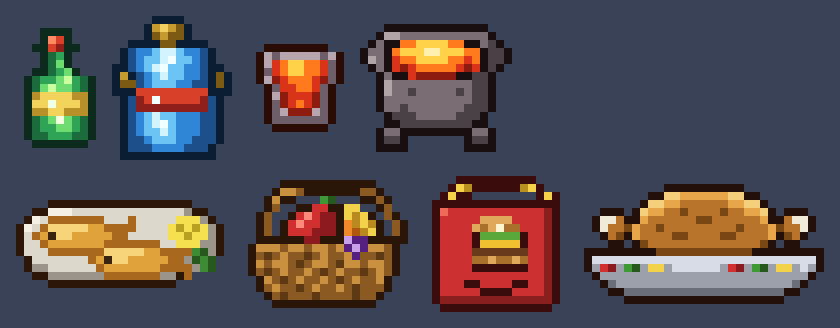
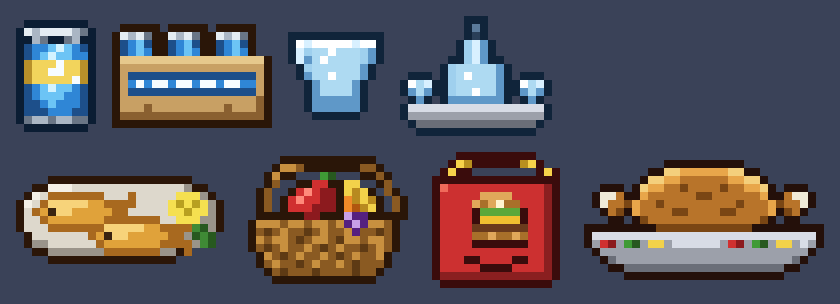
Provisions re-theme: Fizz Can and Case of Fizz (12 cans), Iceberg Shot and Iceberg Tray (ice-cold vodka, Tipsy, lava immunity)
Display names, tooltips, recipes (Case: 12 cans at a Work Bench; Shot: Obsidian Skin ingredients plus an Ice Block; Tray: 10 shots plus 4 iron bars) and four new sprites; class names unchanged. The vodka counts as alcohol (Tipsy, sway).

Claude-Session: https://claude.ai/code/session_01QKZziVb146pFyiSgEKZHkk

diff --git a/levy-mod/tools/art8/provisions.py b/levy-mod/tools/art8/provisions.py
@@ -35,80 +35,73 @@ def render(rows, pal):
 
 S = {}
 
-# FIZZ POP: a green soda bottle with a red cap and a yellow label (20x30)
-S['FizzPop'] = (dict(O='0d2b1c', d='1c6b3d', m='2fa356', l='6fdc72', h='c9ff9c', w='f2ffe0', C='d8402a', c='8f1f1a', k='ff8a63', y='f2d45c', Y='b8902a'), [
-    "...OOOO...",
-    "...OkCO...",
-    "..OOCcOO..",
-    "...OdmO...",
-    "...OdlO...",
-    "..OOdmlO..",
-    ".OdmmlhmdO",
-    ".OdlhllmdO",
-    ".OYyyyyYYO",
-    ".OyywyyyYO",
-    ".OYYyyYYYO",
-    ".OdmlwlmdO",
-    ".OdmmllmdO",
-    ".OddmmmddO",
-    "..OOOOOOO.",
+# FIZZ POP: a blue soda can with a silver top and a yellow label (20x28)
+S['FizzPop'] = (dict(O='0b1d33', d='1d4f8a', m='2f86d6', l='6cc4f5', h='d3f3ff', j='e4ecf2', I='aab6c4', i='6a7686', y='f2d45c', Y='b8902a', w='f6fcff'), [
+    ".OOOOOOOO.",
+    "OjIjjjjIiO",
+    "OOIiOOiIOO",
+    "OdmmlhlmdO",
+    "OdmlhllmmO",
+    "OYyyywyyYO",
+    "OYyywwyyYO",
+    "OYyyyyywYO",
+    "OdmlhllmdO",
+    "OdmlllmmdO",
+    "OddmlmmmdO",
+    "OdddmmmddO",
+    "OiIIiIIiiO",
+    ".OOOOOOOO.",
 ])
 
-# FIZZ TANK: a steel soda cylinder with a brass valve and a tap
-S['FizzTank'] = (dict(O='0b1d33', d='1d4f8a', m='2f86d6', l='6cc4f5', h='d3f3ff', b='c59a2e', B='7d5a14', g='f0d060', r='d8402a', R='8f1f1a', w='f2ffff'), [
-    ".....OOOO......",
-    "....ObgbBO.....",
-    "....OBbBBO.....",
-    "..OOOOBBOOOO...",
-    ".OdmmlhhlmmdO..",
-    ".OdmllhwllmdO..",
-    "OOdmlhwllmmdOO.",
-    "ObOdmlhllmmdOBO",
-    "OBBdmlllmmddOBO",
-    "OOOrrrrrrrrrOOO",
-    ".OdRrwrrrrrRdO.",
-    ".OdRRRRRRRRRdO.",
-    ".OdmlhllmmmddO.",
-    ".OdmlhwlmmmddO.",
-    ".OdmllhlmmmddO.",
-    ".OddmlllmmdddO.",
-    ".OdddmmmmdddO..",
-    ".OOOOOOOOOOOO..",
+# FIZZ TANK (Case of Fizz): a cardboard case with a row of blue cans standing in it (40x26)
+S['FizzTank'] = (dict(O='2a1608', c='c8a064', k='e6c88c', C='8a6030', b='2f86d6', B='1d4f8a', w='f6fcff', j='e4ecf2', I='aab6c4', i='6a7686', d='1d4f8a', m='2f86d6', l='6cc4f5'), [
+    ".OOOOO.OOOOO.OOOOO..",
+    "OjIjiOOjIjiOOjIjiO..",
+    "OdmldOOdmldOOdmldO..",
+    "OdmlmOOdmlmOOdmlmO..",
+    "OkkkkkkkkkkkkkkkkkkO",
+    "OccccccccccccccccccO",
+    "OcBBBBBBBBBBBBBBBBcO",
+    "OcbwbwwbwwbwwbwwbbcO",
+    "OcBBBBBBBBBBBBBBBBcO",
+    "OcccccccccccccccccCO",
+    "OcccCcccccccccCcccCO",
+    "OCCCCCCCCCCCCCCCCCCO",
+    "OOOOOOOOOOOOOOOOOOOO",
 ])
 
-# MAGMA SHOT: a smoked-glass shot of lava
-S['MagmaShot'] = (dict(O='2a0c06', g='b7a6ad', G='6e5e69', r='d9341a', R='8e1b10', o='ff7a1c', y='ffd24a', w='fff0b0'), [
-    "..OOOOOOOO..",
-    ".OgGgggggGgO",
-    ".OgroyyoorGO",
-    ".OGroyyoorGO",
-    ".OgRrooorRGO",
-    "..OGrroorGO.",
-    "..OgRrrrRGO.",
-    "..OGRrorRGO.",
-    "..OGgRRRgGO.",
-    "..OGGGGGGGO.",
-    "...OOOOOOO..",
+# MAGMA SHOT (Iceberg Shot): a frosted shot glass of ice-cold vodka (24x22)
+S['MagmaShot'] = (dict(O='10243a', e='d8f0ff', f='9fd0ee', F='5f98c8', v='aedaf2', w='ffffff'), [
+    "OOOOOOOOOOOO",
+    "OwewwwwwewwO",
+    "OefvvwvvvfFO",
+    "OeFvwvvvvfFO",
+    ".OfvvvvvvFO.",
+    ".OFvvwvvvFO.",
+    "..OFvvvvFO..",
+    "..OFvvvvFO..",
+    "..OFFFFFFO..",
+    "..OFFFFFFO..",
+    "...OOOOOO...",
 ])
 
-# MAGMA CRUCIBLE: an iron pot full of lava with two handles
-S['MagmaCrucible'] = (dict(O='1a0f10', i='4a4146', I='7a6d73', j='b2a5a8', r='d9341a', R='8e1b10', o='ff7a1c', y='ffd24a', w='fff0b0'), [
-    "...OOOOOOOOOOOOO...",
-    "..OjjIIIIIIIIIIIO..",
-    ".OIOOooyyyyooOOIiO.",
-    "OIIOoyyywwyyyooOiiO",
-    "OjIOrooyyyyooroOiiO",
-    ".OIOrRrooooorRrOiO.",
-    "..OIOOrRRRRROOiiO..",
-    "..OjIIIIIIIIIIiiO..",
-    "..OjIIiIIIIIiIiiO..",
-    "..OIIIIIIIIIIIiiO..",
-    "..OIIiIIIIIIIiiiO..",
-    "...OiiiIIIIIiiiO...",
-    "...OOiiiiiiiiiOO...",
-    "..OIIOOOOOOOOOIIO..",
-    "..OiiO.......OiiO..",
-    "..OOOO.......OOOO..",
+# MAGMA CRUCIBLE (Iceberg Tray): a frosted bottle and two shots on a silver tray (38x30)
+S['MagmaCrucible'] = (dict(O='10243a', e='d8f0ff', f='9fd0ee', F='5f98c8', v='aedaf2', w='ffffff', k='5a7a9a', c='2a3f58', j='d8dce6', I='9ca0aa', i='6a6e78'), [
+    "........OOO........",
+    "........OkO........",
+    "........OcO........",
+    ".......OfeFO.......",
+    ".......OfeFO.......",
+    "......OOfeFOO......",
+    ".....OfvvvvvFO.....",
+    ".OOO.OfvwvvvFO.OOO.",
+    "OwveOOfvvvvvFOOwveO",
+    "OFvFOOfvvwvvFOOFvFO",
+    ".OFO.OFFFFFFFO.OFO.",
+    "OjjjjjjjjjjjjjjjjjO",
+    "OIIIIIIIIIIIIIIIIIO",
+    ".OiiiiiiiiiiiiiiiO.",
+    "..OOOOOOOOOOOOOOO..",
 ])
 
 # FISH FRY PLATTER: a white plate with two fried fish, a lemon wedge and parsley

diff --git a/levy-mod/Levy/Content/Items/Provisions/ProvisionItems.cs b/levy-mod/Levy/Content/Items/Provisions/ProvisionItems.cs
@@ -54,7 +54,7 @@ namespace Levy.Content.Items.Provisions
 		}
 	}
 
-	/// <summary>Fizz Tank: a bulk fizzy round. Also sold by the Tavernkeep.</summary>
+	/// <summary>Case of Fizz (class keeps its old name): a bulk fizzy round, crafted from cans. Also sold by the Tavernkeep.</summary>
 	public class FizzTank : ProvisionContainer
 	{
 		public override int RoundId => ProvisionRules.FizzId;
@@ -63,18 +63,18 @@ namespace Levy.Content.Items.Provisions
 		public override LocalizedText Tooltip => base.Tooltip.WithFormatArgs(LevyConstants.DrinkRadiusTiles, LevyConstants.DrinkDurationTicks / 3600, ProvisionRules.FizzJumpTiles, LevyConstants.FizzDefense, (int)System.Math.Round(LevyConstants.FizzKnockbackResist * 100f));
 
 		public override void AddRecipes()
-			=> CreateRecipe().AddIngredient(ModContent.ItemType<FizzPop>(), LevyConstants.FizzTankPops).AddRecipeGroup(RecipeGroupID.IronBar, 6).AddTile(TileID.Anvils).Register();
+			=> CreateRecipe().AddIngredient(ModContent.ItemType<FizzPop>(), LevyConstants.FizzTankPops).AddTile(TileID.WorkBenches).Register();
 	}
 
-	/// <summary>Magma Crucible: a bulk lava round, crafted only.</summary>
+	/// <summary>Iceberg Tray (class keeps its old name): a bulk round of Iceberg Shots, crafted only.</summary>
 	public class MagmaCrucible : ProvisionContainer
 	{
 		public override int RoundId => ProvisionRules.LavaId;
 		protected override (int w, int h) Size => (38, 32);
-		public override LocalizedText Tooltip => base.Tooltip.WithFormatArgs(LevyConstants.DrinkRadiusTiles, LevyConstants.LavaShotDurationTicks / 3600);
+		public override LocalizedText Tooltip => base.Tooltip.WithFormatArgs(LevyConstants.DrinkRadiusTiles, LevyConstants.LavaShotDurationTicks / 3600, (int)System.Math.Round((LevyConstants.DrunkAimErrorMult - 1f) * 100f));
 
 		public override void AddRecipes()
-			=> CreateRecipe().AddIngredient(ModContent.ItemType<MagmaShot>(), LevyConstants.CrucibleShots).AddRecipeGroup(RecipeGroupID.IronBar, 6).AddIngredient(ItemID.Obsidian, 5).AddTile(TileID.Anvils).Register();
+			=> CreateRecipe().AddIngredient(ModContent.ItemType<MagmaShot>(), LevyConstants.CrucibleShots).AddRecipeGroup(RecipeGroupID.IronBar, 4).AddTile(TileID.Anvils).Register();
 	}
 
 	/// <summary>A single drink: a buff potion the player can drink, which the Armory also issues to a levy from a buff slot.</summary>
@@ -96,7 +96,7 @@ namespace Levy.Content.Items.Provisions
 		}
 	}
 
-	/// <summary>Fizz Pop: a non-alcoholic bubbly drink. Brewed in bulk (four per batch).</summary>
+	/// <summary>Fizz Can (class keeps its old name): a non-alcoholic bubbly drink in a soda can. Brewed in bulk (four per batch).</summary>
 	public class FizzPop : SingleDrink
 	{
 		protected override int BuffType => ModContent.BuffType<FizzyBuff>();
@@ -114,7 +114,7 @@ namespace Levy.Content.Items.Provisions
 			=> CreateRecipe(LevyConstants.FizzPopsPerBrew).AddIngredient(ItemID.BottledWater, LevyConstants.FizzPopsPerBrew).AddIngredient(ItemID.Cloud).AddIngredient(ItemID.Daybloom).AddTile(TileID.Bottles).Register();
 	}
 
-	/// <summary>Magma Shot: lava immunity and lava swimming in a shot glass. Brewed in bulk (five per batch) from the Obsidian Skin Potion's own ingredients.</summary>
+	/// <summary>Iceberg Shot (class keeps its old name): ice-cold vodka, so numb that lava means nothing: lava immunity and lava swimming. Brewed in bulk (five per batch) from the Obsidian Skin Potion's own ingredients plus an Ice Block.</summary>
 	public class MagmaShot : SingleDrink
 	{
 		protected override int BuffType => ModContent.BuffType<LavaShotBuff>();

diff --git a/levy-mod/Levy/Common/Provisions/ProvisionsSystem.cs b/levy-mod/Levy/Common/Provisions/ProvisionsSystem.cs
@@ -85,6 +85,7 @@ namespace Levy.Common.Provisions
 				foreach (int tile in source.requiredTile) shot.AddTile(tile);
 			}
 			else shot.AddIngredient(ItemID.BottledWater).AddIngredient(ItemID.Daybloom).AddIngredient(ItemID.Obsidian).AddIngredient(ItemID.Fireblossom).AddTile(TileID.Bottles);
+			shot.AddIngredient(ItemID.IceBlock); // the frost
 			shot.Register();
 		}
 
@@ -176,9 +177,9 @@ namespace Levy.Common.Provisions
 				// the Magma Shot batch uses the Obsidian Skin Potion's ingredients
 				Recipe src = null, mine = null;
 				foreach (Recipe r in Main.recipe) { if (r == null || r.createItem == null) continue; if (r.createItem.type == ItemID.ObsidianSkinPotion && src == null) src = r; if (r.createItem.type == ModContent.ItemType<MagmaShot>()) mine = r; }
-				bool same = src != null && mine != null && src.requiredItem.Count == mine.requiredItem.Count;
+				bool same = src != null && mine != null && src.requiredItem.Count + 1 == mine.requiredItem.Count && mine.requiredItem[mine.requiredItem.Count - 1].type == ItemID.IceBlock;
 				if (same) for (int i = 0; i < src.requiredItem.Count; i++) same &= src.requiredItem[i].type == mine.requiredItem[i].type && src.requiredItem[i].stack == mine.requiredItem[i].stack;
-				Check(same, "Magma Shot is brewed from the Obsidian Skin Potion's ingredients");
+				Check(same, "Iceberg Shot is brewed from the Obsidian Skin Potion's ingredients plus an Ice Block");
 				Check(mine != null && mine.createItem.stack == LevyConstants.MagmaShotsPerBrew, "a Magma Shot brew makes " + LevyConstants.MagmaShotsPerBrew);
 			});
 
@@ -213,7 +214,7 @@ namespace Levy.Common.Provisions
 				var ab = Common.Movement.MovementAbilities.FromDummy(d);
 				Check(ab.ExtraJumps >= 1 && ab.JumpTiles >= Common.LevyConstants.Movement.BaseJumpTiles + ProvisionRules.FizzJumpTiles - 1, $"a Fizzy levy reads {ab.ExtraJumps} extra jump and {ab.JumpTiles} jump tiles (+{ProvisionRules.FizzJumpTiles})");
 				Check(DrinkBuffs.Apply(new Player { statDefense = new Player.DefenseStat() }, ModContent.BuffType<LavaShotBuff>()), "Lava Shot is claimed as a levy buff");
-				Check(!DrinkBuffs.IsDrinkBuff(ModContent.BuffType<FizzyBuff>()) && !DrinkBuffs.IsDrinkBuff(ModContent.BuffType<LavaShotBuff>()), "Fizzy and Lava Shot do not make a levy Tipsy");
+				Check(!DrinkBuffs.IsDrinkBuff(ModContent.BuffType<FizzyBuff>()) && DrinkBuffs.IsDrinkBuff(ModContent.BuffType<LavaShotBuff>()), "Fizzy is soda (not Tipsy) and the Iceberg vodka is Tipsy");
 
 				var n = new NPC(); n.SetDefaults(ModContent.NPCType<SoldierNPC>());
 				var body = n.ModNPC as SoldierNPC;
@@ -235,6 +236,7 @@ namespace Levy.Common.Provisions
 					if (!kept) { n.buffType[0] = ModContent.BuffType<LavaShotBuff>(); n.buffTime[0] = 600; n.buffType[1] = ModContent.BuffType<FizzyBuff>(); n.buffTime[1] = 600; }
 					g.Refresh(n);
 					Check(n.lavaImmune && n.buffImmune[BuffID.OnFire], $"a Lava Shot levy is lava and burning immune (AddBuff kept it: {kept})");
+					Check(DrinkBuffs.IsDrunk(n) && Math.Abs(DrinkBuffs.AimErrorFactor(body) - LevyConstants.DrunkAimErrorMult) < 1e-4f, "a Lava Shot levy is Tipsy");
 					Check(Math.Abs(n.knockBackResist - LevyConstants.FizzKnockbackResist) < 1e-4f, "a Fizzy levy takes knockback");
 					for (int i = 0; i < n.buffType.Length; i++) { n.buffType[i] = 0; n.buffTime[i] = 0; }
 					g.Refresh(n);

diff --git a/levy-mod/Levy/Content/Buffs/DrinkBuffs.cs b/levy-mod/Levy/Content/Buffs/DrinkBuffs.cs
@@ -44,7 +44,7 @@ namespace Levy.Content.Buffs
 		}
 
 		/// <summary>True if the buff type is one of the three drinks.</summary>
-		public static bool IsDrinkBuff(int type) => type == ModContent.BuffType<AleBuff>() || type == ModContent.BuffType<StoutBuff>() || type == ModContent.BuffType<RumBuff>();
+		public static bool IsDrinkBuff(int type) => type == ModContent.BuffType<AleBuff>() || type == ModContent.BuffType<StoutBuff>() || type == ModContent.BuffType<RumBuff>() || type == ModContent.BuffType<LavaShotBuff>(); // the Iceberg vodka is alcohol too
 
 		/// <summary>True if the NPC carries any drink.</summary>
 		public static bool IsDrunk(NPC n)
@@ -52,7 +52,7 @@ namespace Levy.Content.Buffs
 			if (n == null) return false;
 			var t = Types;
 			for (int i = 0; i < t.Length; i++) if (n.HasBuff(t[i])) return true;
-			return false;
+			return n.HasBuff(ModContent.BuffType<LavaShotBuff>()); // the Iceberg vodka: Tipsy too
 		}
 
 		/// <summary>Multiplier on a soldier's aim error: <see cref="LevyConstants.DrunkAimErrorMult"/> while it carries a drink, else exactly 1.</summary>

diff --git a/levy-mod/Levy/Content/Buffs/ProvisionBuffs.cs b/levy-mod/Levy/Content/Buffs/ProvisionBuffs.cs
@@ -31,7 +31,7 @@ namespace Levy.Content.Buffs
 	}
 
 	/// <summary>
-	/// Lava Shot (Magma Shot, Magma Crucible): immunity to lava and to the Burning it sets, and a body that swims through lava the way it swims through water.
+	/// Lava Shot (Iceberg Shot, Iceberg Tray; ice-cold vodka, so numb it ignores lava, and Tipsy like the other spirits): immunity to lava and to the Burning it sets, and a body that swims through lava the way it swims through water.
 	/// A real player gets Obsidian Skin's flags from the buff; a levy gets the flags from <see cref="ProvisionsBody"/> and the swim from SoldierNPC.Movement.
 	/// </summary>
 	public class LavaShotBuff : ModBuff
@@ -44,6 +44,8 @@ namespace Levy.Content.Buffs
 			Main.debuff[Type] = false; Main.pvpBuff[Type] = false;
 			Main.buffNoSave[Type] = true;
 		}
+
+		public override void ModifyBuffText(ref string buffName, ref string tip, ref int rare) => tip = string.Format(tip, (int)Math.Round((LevyConstants.DrunkAimErrorMult - 1f) * 100f));
 
 		public override void Update(Player player, ref int buffIndex)
 		{

diff --git a/levy-mod/Levy/Common/LevyConstants.Provisions.cs b/levy-mod/Levy/Common/LevyConstants.Provisions.cs
@@ -28,7 +28,7 @@ namespace Levy.Common
 		public const int MealMessCooldownTicks = 60 * 30, MealMessCheckTicks = 60;
 
 		// ---- Recipes ----
-		public const int FizzPopsPerBrew = 4, MagmaShotsPerBrew = 5, FizzTankPops = 10, CrucibleShots = 10;
+		public const int FizzPopsPerBrew = 4, MagmaShotsPerBrew = 5, FizzTankPops = 12, CrucibleShots = 10;
 		public const int FishFryFish = 8, FruitBasketFruit = 10, BurgerBoxDishes = 6, FeastDishes = 3;
 	}
 }
